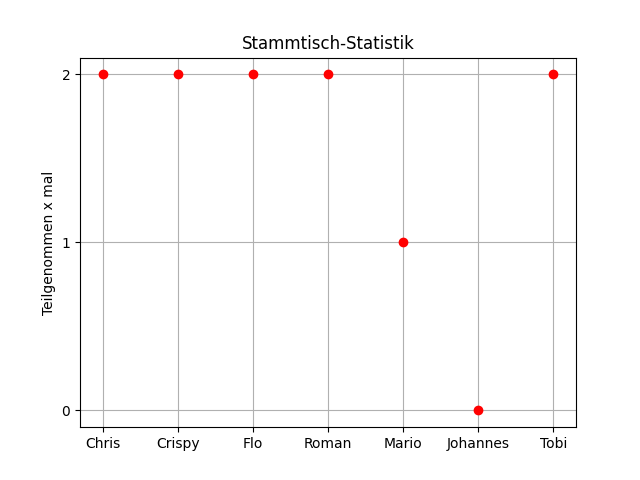
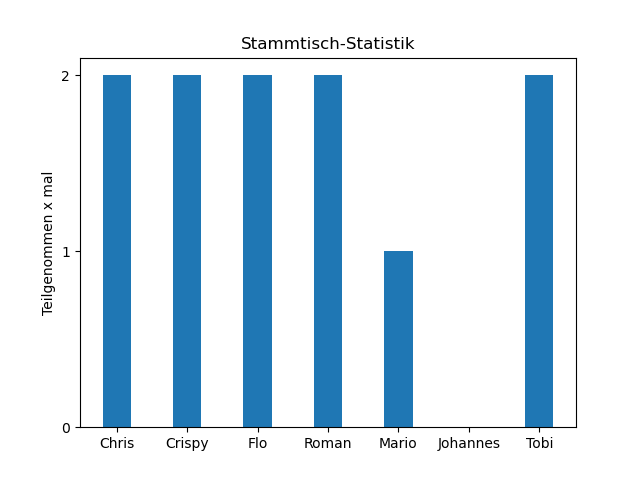
Update

diff --git a/statistics.py b/statistics.py
@@ -30,11 +30,10 @@ def get_stats(content):
 
 def plot_stats(count_dict, mode = "plot"):
 
-    plt.plot(list(count_dict.keys()), list(count_dict.values()), "ro")
+    plt.bar(list(count_dict.keys()), list(count_dict.values()), width=0.4)
     plt.title("Stammtisch-Statistik")
     plt.ylabel("Teilgenommen x mal")
     plt.yticks([i for i in range(0, max(count_dict.values()) + 1)])
-    plt.grid()
     if mode == "plot":
         plt.show()
     elif mode == "save":
